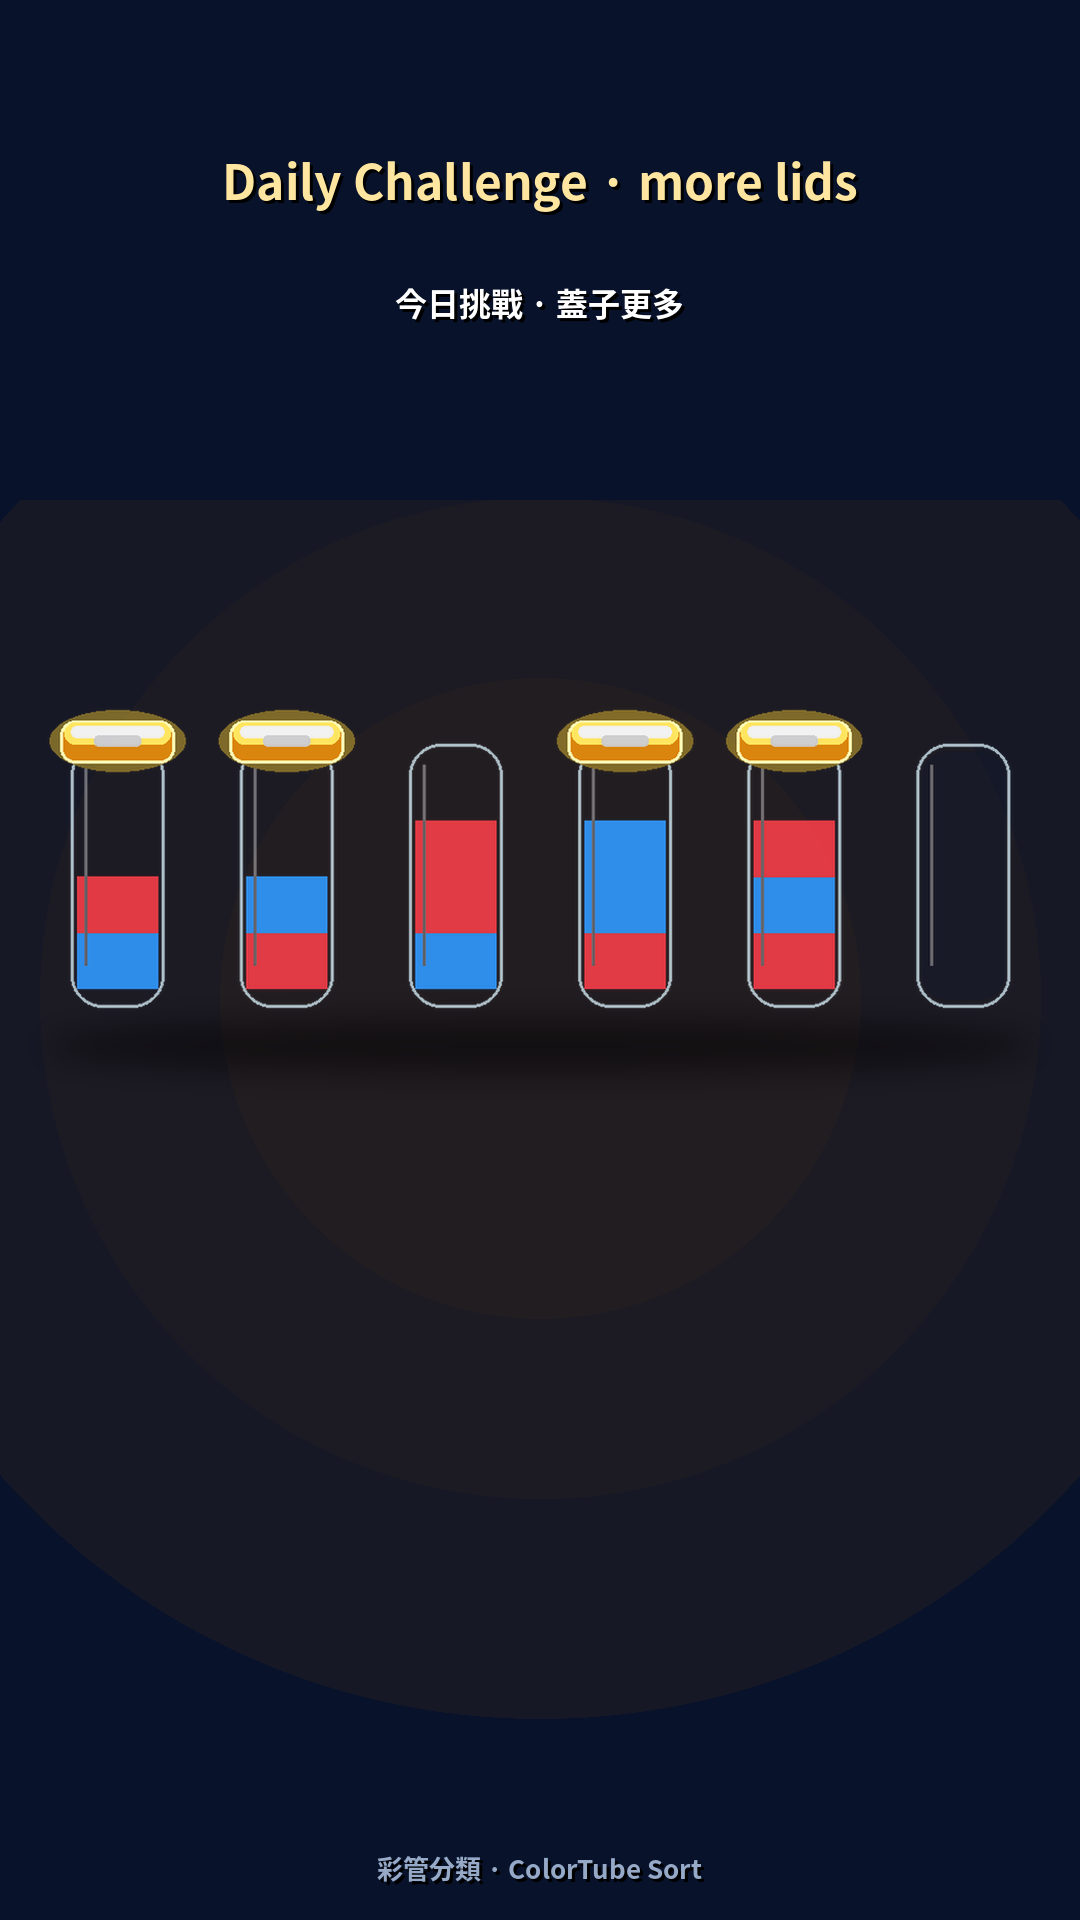
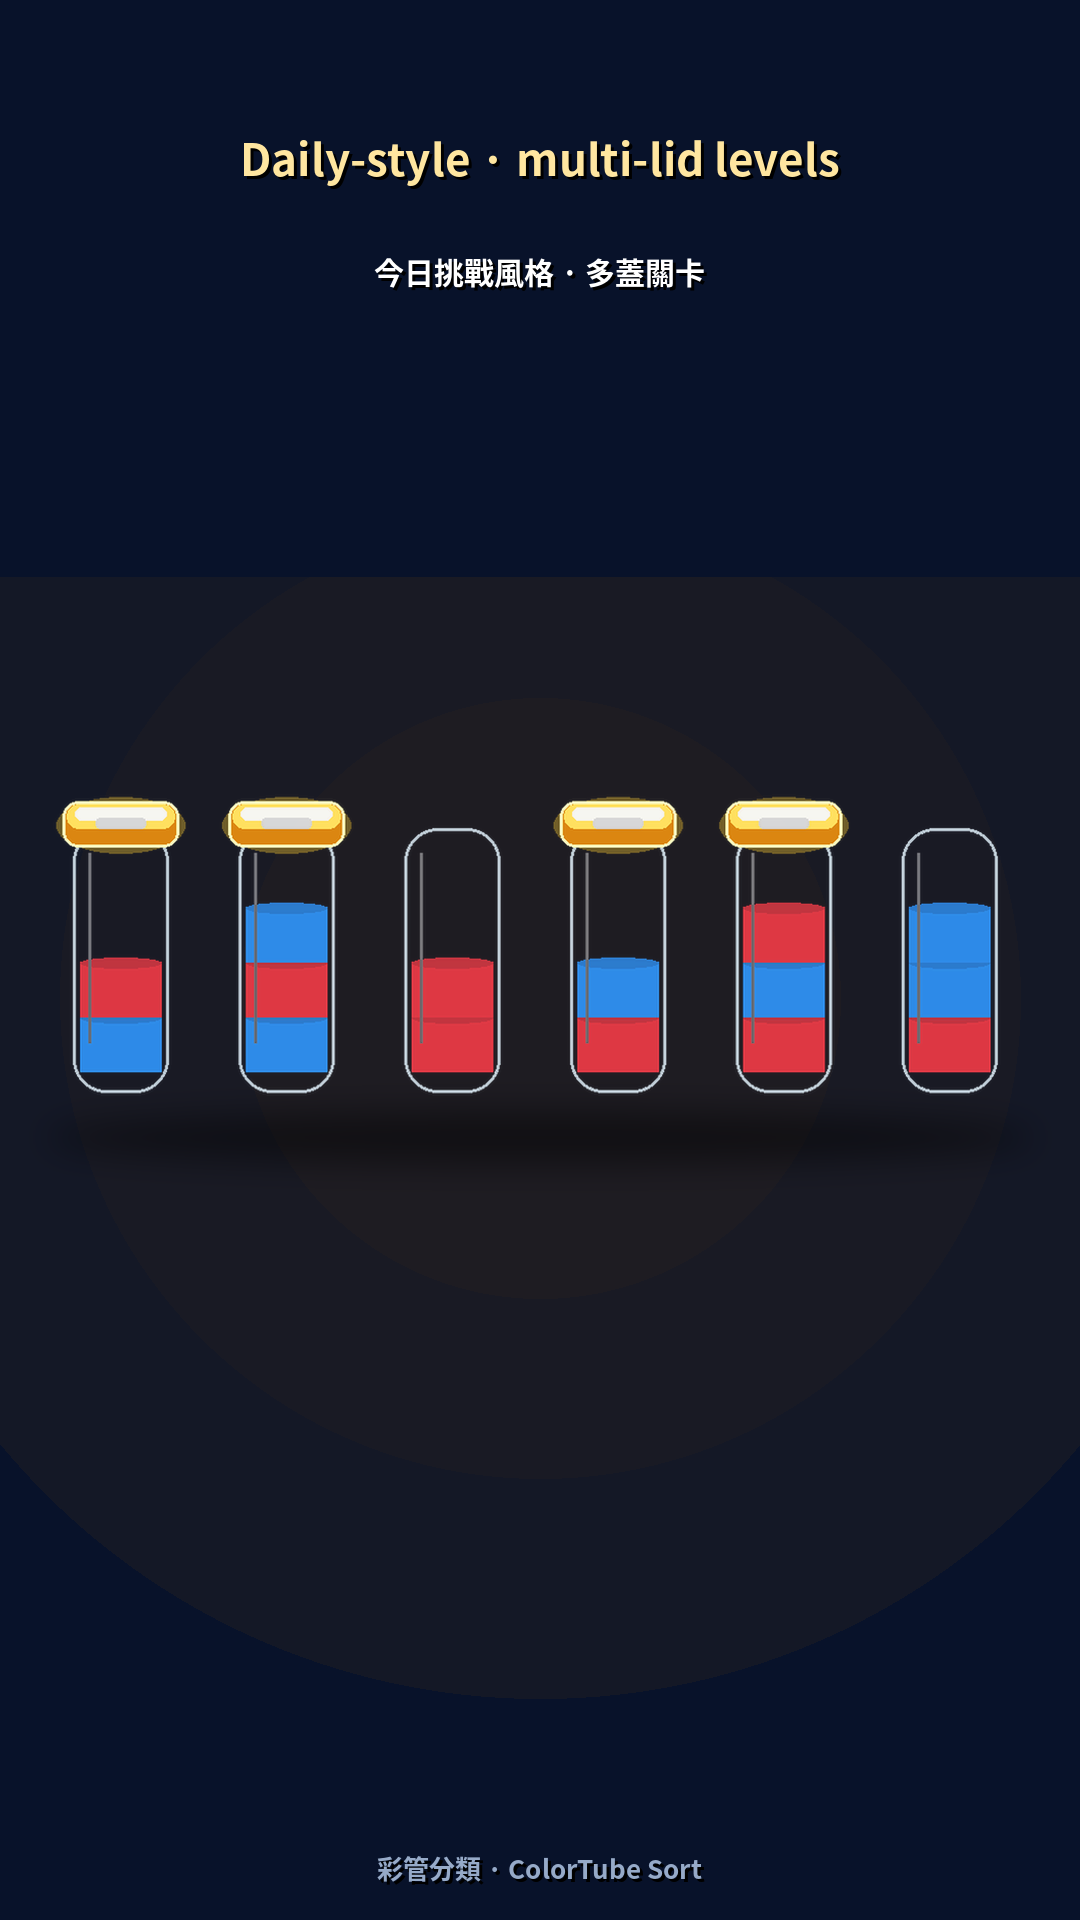
assets(store): Shot5 v5 honest copy (4金/6管)
Supersedes v4: badge matches art; soft copy 今日挑戰風格 until live ≥3 caps.

diff --git a/store-assets/finals/SHOT5_NOTES.md b/store-assets/finals/SHOT5_NOTES.md
@@ -1,5 +1,9 @@
-# Shot5 v3 — denser + thicker gold lids
+# Shot5 v5 — PR#8 退修後重做
 
-- 6 tubes, **4 thick gold lids** (taller/brighter paint)
-- Badge: 4 厚金蓋 · 6 管擠盤
-- Still campaign-styled vs live ≤2 caps/level honesty note
+## Fixes
+1. Badge **4 厚金蓋 · 6 管擠盤** — numbers match art (4 gold / 6 tubes)
+2. All lids **gold thick on-tube**; no floating lids; no black lids
+3. Copy softened: 「今日挑戰風格 · 多蓋關卡」／Daily-style · multi-lid levels + disclaimer（後期／內容跟上後可主力）
+
+## Gate
+- Not primary sell shot until live daily/mid-late mainline can show ≥3 caps
